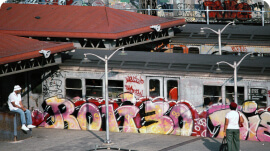
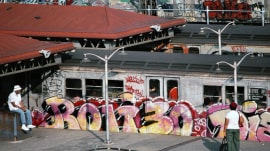
заменить изображения с обрезанными углами

diff --git a/src/utils/movies.js b/src/utils/movies.js
@@ -1,6 +1,6 @@
-import pic1 from '../images/movies/1663707474_55-phonoteka-org-p-oboi-boitsovskii-klub-pinterest-55.jpg';
-import pic2 from '../images/movies/45.jpg';
-import pic3 from '../images/movies/11111.jpeg';
+import pic1 from '../images/movies/pic1.jpg';
+import pic2 from '../images/movies/pic2.jpg';
+import pic3 from '../images/movies/pic3.jpg';
 import pic4 from '../images/movies/pic4.jpg';
 import pic5 from '../images/movies/pic5.jpg';
 import pic6 from '../images/movies/pic6.jpg';
